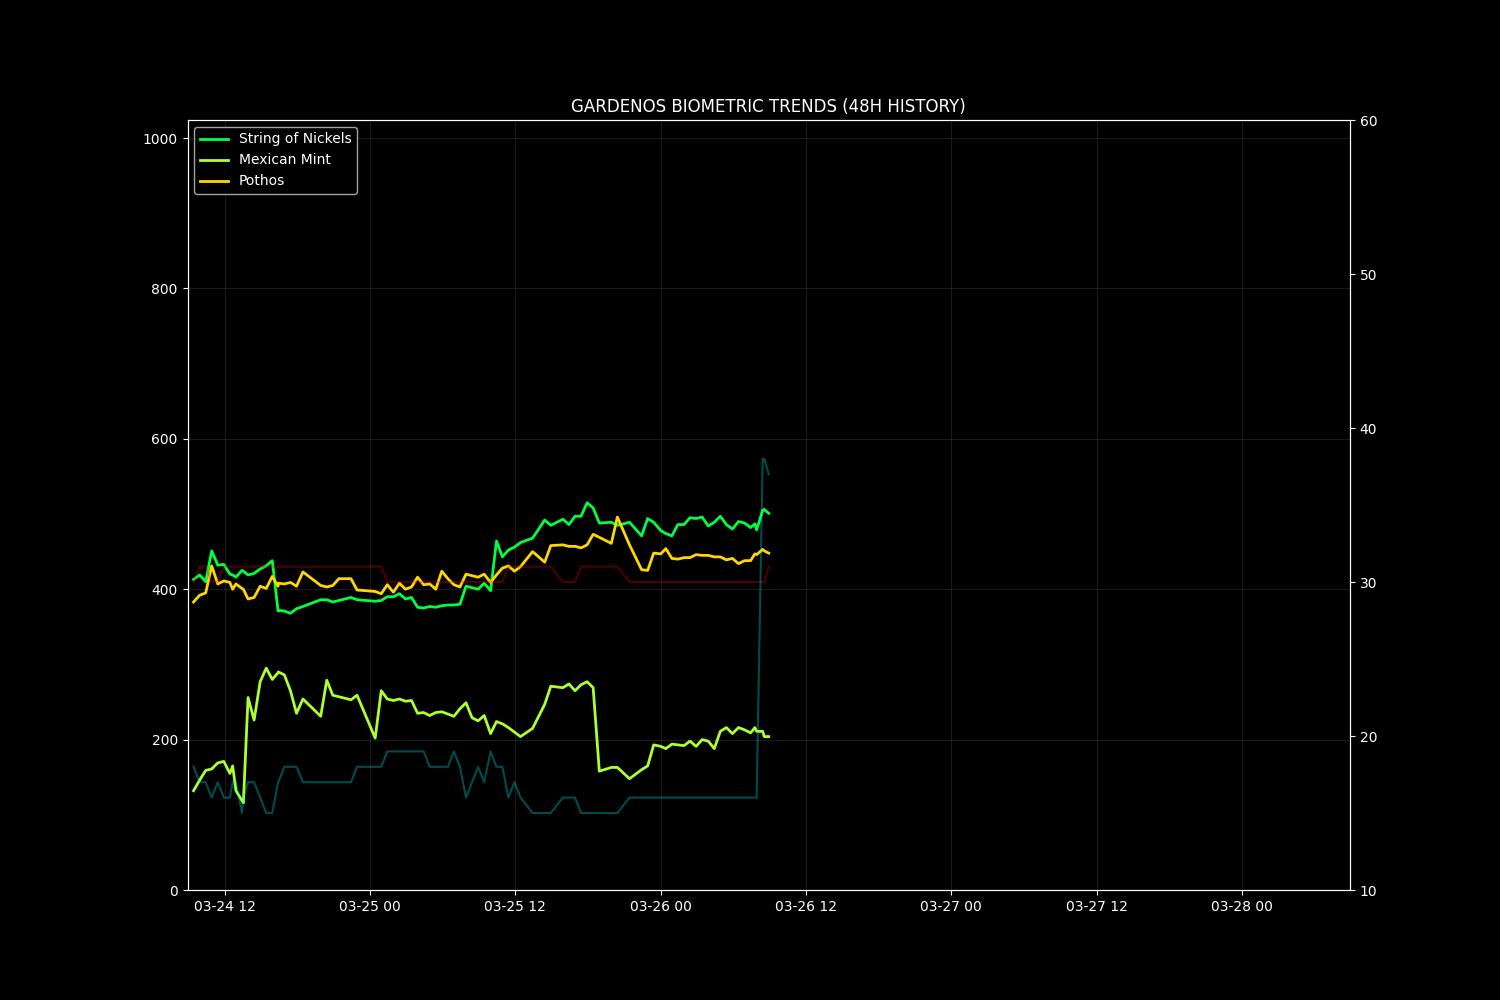
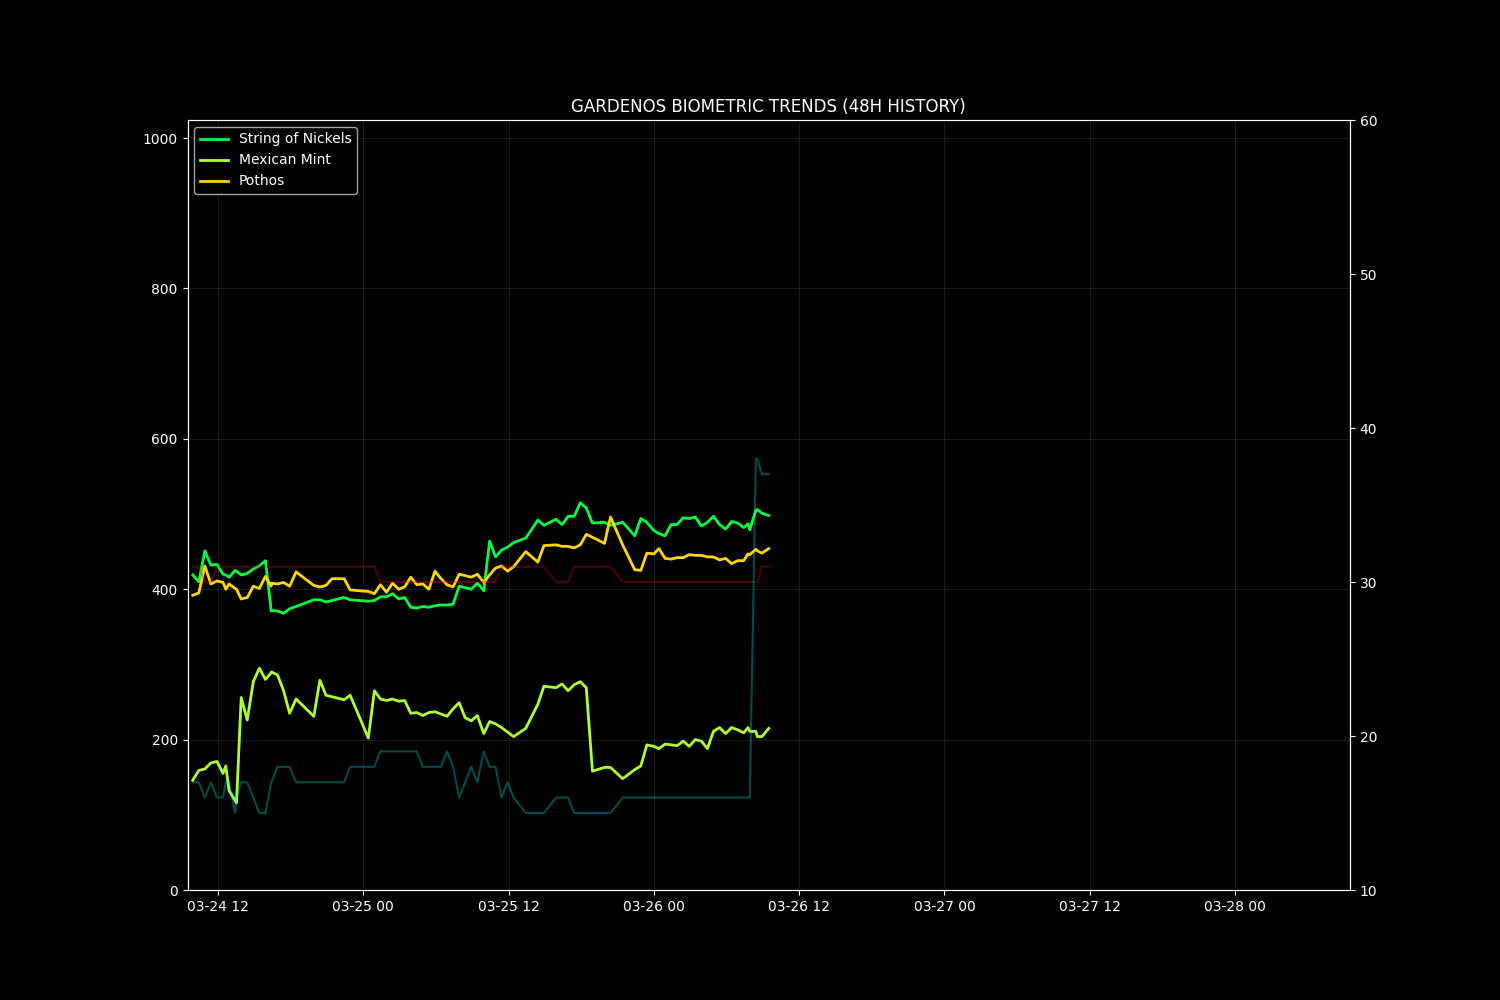
Warden Cycle: 2026-03-26 09:29:30

diff --git a/docs/data/observer_context.md b/docs/data/observer_context.md
@@ -1,10 +1,9 @@
 # 📝 Garden Observer Context
-**Generated:** 2026-03-26 08:40:25
+**Generated:** 2026-03-26 08:58:01
 
 ## 1. 🌡 Recent Telemetry (Last 12 Readings)
 ```csv
 timestamp,temp,hum,light,p1,p2,p3
-2026-03-26 03:55:34,30.0,16.0,910,484.0,198.0,445.0
 2026-03-26 04:25:28,30.0,16.0,910,489.0,188.0,443.0
 2026-03-26 04:55:34,30.0,16.0,910,497.0,211.0,443.0
 2026-03-26 05:25:28,30.0,16.0,910,486.0,216.0,439.0
@@ -16,18 +15,18 @@ timestamp,temp,hum,light,p1,p2,p3
 2026-03-26 07:55:28,30.0,16.0,654,479.0,211.0,446.0
 2026-03-26 08:25:28,30.0,38.0,604,505.0,211.0,453.0
 2026-03-26 08:33:09,30.0,38.0,670,506.0,204.0,451.0
+2026-03-26 08:55:28,31.0,37.0,599,501.0,204.0,448.0
 
 ```
 
 ## 2. 🌬 Atmospheric Pull (Indoor vs. Outdoor)
-**Indoor VPD**: 2.631 kPa | **Outdoor VPD**: 0.553 kPa
-**Pressure Delta**: -2.078 kPa
+**Indoor VPD**: 2.83 kPa | **Outdoor VPD**: 0.553 kPa
+**Pressure Delta**: -2.277 kPa
 🛡 **INDOOR REFUGE**: Outdoor air is much more humid than indoors. Evaporative stress is low.
 
 ## 3. 📊 Computed Metrics (Last 12 Calculations)
 ```csv
 timestamp,vpd,p1_pct,p1_slope,p2_pct,p2_slope,p3_pct,p3_slope,p4_pct,p4_slope,p5_pct,p5_slope,p6_pct,p6_slope,p1_is_dry,p2_is_dry,p3_is_dry
-2026-03-26 03:55:34,3.564,74.5,,100.0,,65.2,,,,,,,,False,False,False
 2026-03-26 04:25:28,3.564,73.0,,100.0,,65.8,,,,,,,,False,False,False
 2026-03-26 04:55:34,3.564,70.6,,97.4,,65.8,,,,,,,,False,False,False
 2026-03-26 05:25:28,3.564,73.9,,95.3,,67.0,,,,,,,,False,False,False
@@ -39,6 +38,7 @@ timestamp,vpd,p1_pct,p1_slope,p2_pct,p2_slope,p3_pct,p3_slope,p4_pct,p4_slope,p5
 2026-03-26 07:55:28,3.564,76.1,,97.4,,65.0,,,,,,,,False,False,False
 2026-03-26 08:25:28,2.631,68.1,-16.0,97.4,0.0,63.0,-4.0,,,,,,,False,False,False
 2026-03-26 08:33:09,2.631,67.8,-2.34,100.0,20.3,63.5,3.9,,,,,,,False,False,False
+2026-03-26 08:55:28,2.83,69.3,4.03,100.0,0.0,64.4,2.42,,,,,,,False,False,False
 
 ```
 

diff --git a/docs/data/ledger.md b/docs/data/ledger.md
@@ -360,3 +360,18 @@ Action: No immediate watering required. Continue misting schedule. Monitor p4's 
 
 ## 2026-03-26 08:55
 **Data Summary**: Temp: 31.0C, Hum: 37.0%, VPD: 2.83 kPa. p1: 69.3% (Slope: 4.03). p2: 100% (Slope: 0.0). p3: 64.4% (Slope: 2.42). 
+
+## 2026-03-26 09:03
+
+**Vitality Pulse**: p1: 🟢 NOMINAL (visual: turgid leaves, no wilting); p2: 🟢 NOMINAL (vibrant green, no drooping); p3: 🟢 NOMINAL (firm, upright leaves); p4: 🟢 NOMINAL (healthy compact growth, no progression of previous minor wilting, leaf appears fully recovered)
+
+**The Biome Discovery**: Soil surface shows no crusting, moisture appears even. Shadow angles consistent with morning light. Sensor wires are secured and not causing any physical stress to plants.
+
+**Growth Momentum**: Apical Leans: No significant apical lean observed in p1-p3; all exhibit upright growth. Stasis Points: No new stasis points; growth points remain active. (mm-deltas not measured outside 06:00 AM)
+
+**Weather Alignment**: Forecast: 26.47°C, 840midity, mist. Current: 30.0°C, 16.00midity. Plants show good turgidity, indicating effective water retention. Forecast mist and higher humidity are favorable.
+
+**The Warden's Decision**: Verdict: All plants are healthy and well-hydrated. No intervention required. Action: Continue standard monitoring. Prepare for light misting if humidity does not rise as forecasted.
+
+## 2026-03-26 09:29
+**Data Summary**: Temp: 31.0C, Hum: 37.0%, VPD: 2.83 kPa. p1: 70.2% (Slope: 1.59). p2: 95.7% (Slope: -7.58). p3: 62.7% (Slope: -3.0). 
